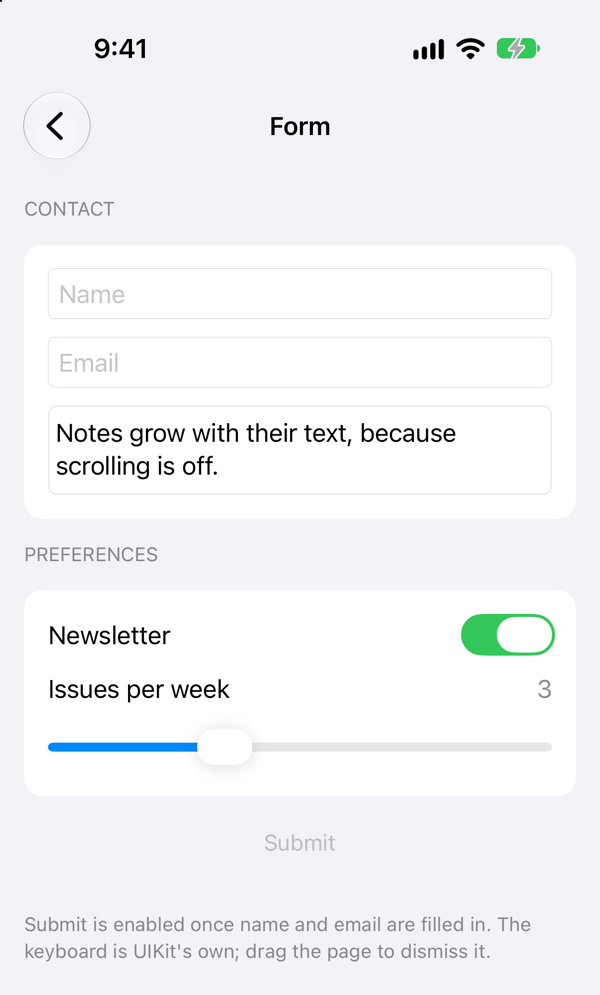
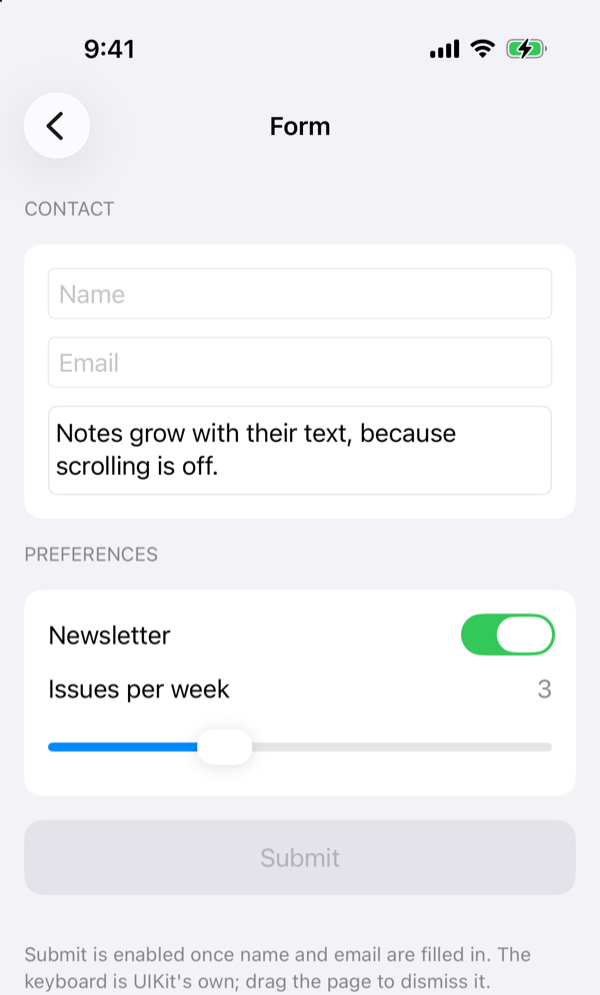
feat: add modifiers for buttons with a configuration

diff --git a/Sources/DeclarativeUIKit/Extensions/UIButton+Configuration.swift b/Sources/DeclarativeUIKit/Extensions/UIButton+Configuration.swift
@@ -1,0 +1,134 @@
+import UIKit
+
+/// Each modifier changes one property of the button's `configuration`, so the
+/// button must have one: create it with `UIButton(configuration:)`.
+/// `title(_:for:)` and `image(_:for:)` also apply to such a button.
+@MainActor
+public extension UIButton {
+
+    // MARK: Size and shape
+
+    @discardableResult
+    func buttonSize(_ value: UIButton.Configuration.Size) -> Self {
+        updateConfiguration { $0.buttonSize = value }
+    }
+
+    @discardableResult
+    func cornerStyle(_ value: UIButton.Configuration.CornerStyle) -> Self {
+        updateConfiguration { $0.cornerStyle = value }
+    }
+
+    @discardableResult
+    func contentInsets(_ value: NSDirectionalEdgeInsets) -> Self {
+        updateConfiguration { $0.contentInsets = value }
+    }
+
+    // MARK: Colors
+
+    /// The color of the title, subtitle and image. Use it instead of
+    /// `titleColor(_:for:)` on a button with a configuration.
+    @discardableResult
+    func baseForegroundColor(_ value: UIColor?) -> Self {
+        updateConfiguration { $0.baseForegroundColor = value }
+    }
+
+    @discardableResult
+    func baseBackgroundColor(_ value: UIColor?) -> Self {
+        updateConfiguration { $0.baseBackgroundColor = value }
+    }
+
+    // MARK: Text
+
+    @discardableResult
+    func subtitle(_ value: String?) -> Self {
+        updateConfiguration { $0.subtitle = value }
+    }
+
+    @discardableResult
+    func titleAlignment(_ value: UIButton.Configuration.TitleAlignment) -> Self {
+        updateConfiguration { $0.titleAlignment = value }
+    }
+
+    /// The space between the title and the subtitle.
+    @discardableResult
+    func titlePadding(_ value: CGFloat) -> Self {
+        updateConfiguration { $0.titlePadding = value }
+    }
+
+    /// Sets a fixed title font. It replaces the configuration's
+    /// `titleTextAttributesTransformer`.
+    @discardableResult
+    func titleFont(_ value: UIFont) -> Self {
+        setTitleFont { _ in value }
+    }
+
+    /// Scales `value` with Dynamic Type the way the system font for `textStyle`
+    /// scales. Give the size the font should have at the default category.
+    /// It replaces the configuration's `titleTextAttributesTransformer`.
+    @discardableResult
+    func titleFont(_ value: UIFont, relativeTo textStyle: UIFont.TextStyle) -> Self {
+        setTitleFont { traits in
+            UIFontMetrics(forTextStyle: textStyle).scaledFont(for: value, compatibleWith: traits)
+        }
+    }
+
+    /// Uses the system font for `textStyle` and follows Dynamic Type. It
+    /// replaces the configuration's `titleTextAttributesTransformer`.
+    @discardableResult
+    func titleFont(textStyle: UIFont.TextStyle) -> Self {
+        setTitleFont { traits in
+            UIFont.preferredFont(forTextStyle: textStyle, compatibleWith: traits)
+        }
+    }
+
+    // MARK: Image
+
+    @discardableResult
+    func imagePlacement(_ value: NSDirectionalRectEdge) -> Self {
+        updateConfiguration { $0.imagePlacement = value }
+    }
+
+    /// The space between the image and the text.
+    @discardableResult
+    func imagePadding(_ value: CGFloat) -> Self {
+        updateConfiguration { $0.imagePadding = value }
+    }
+
+    @discardableResult
+    func preferredSymbolConfigurationForImage(_ value: UIImage.SymbolConfiguration?) -> Self {
+        updateConfiguration { $0.preferredSymbolConfigurationForImage = value }
+    }
+
+    // MARK: State
+
+    /// Shows an activity indicator in place of the image.
+    @discardableResult
+    func showsActivityIndicator(_ value: Bool) -> Self {
+        updateConfiguration { $0.showsActivityIndicator = value }
+    }
+}
+
+private extension UIButton {
+
+    func updateConfiguration(_ change: (inout UIButton.Configuration) -> Void) -> Self {
+        guard var configuration else {
+            preconditionFailure("This modifier needs a button created with UIButton(configuration:).")
+        }
+        change(&configuration)
+        self.configuration = configuration
+        return self
+    }
+
+    /// The transformer runs again when the traits change, so a font computed
+    /// from the button's current traits follows Dynamic Type. It holds the
+    /// button weakly, because the button holds the transformer.
+    func setTitleFont(_ font: @escaping (UITraitCollection?) -> UIFont) -> Self {
+        updateConfiguration { configuration in
+            configuration.titleTextAttributesTransformer = UIConfigurationTextAttributesTransformer { [weak self] attributes in
+                var attributes = attributes
+                attributes[AttributeScopes.UIKitAttributes.FontAttribute.self] = font(self?.traitCollection)
+                return attributes
+            }
+        }
+    }
+}

diff --git a/Tests/DeclarativeUIKitTests/ButtonConfigurationTests.swift b/Tests/DeclarativeUIKitTests/ButtonConfigurationTests.swift
@@ -1,0 +1,86 @@
+import UIKit
+import XCTest
+@testable import DeclarativeUIKit
+
+@MainActor
+final class ButtonConfigurationTests: XCTestCase {
+
+    /// UIKit copies a title set with `setTitle(_:for:)` into the configuration
+    /// when the button updates, so the button is laid out first.
+    func testModifiersKeepEachOthersChanges() {
+        let host = LayoutTestHost(size: CGSize(width: 320, height: 640))
+        let button = UIButton(configuration: .filled())
+            .title("Save")
+            .cornerStyle(.capsule)
+            .imagePadding(8)
+            .baseBackgroundColor(.systemRed)
+            .title("Done")
+        host.rootView.addSubview(button)
+        host.layout()
+        button.layoutIfNeeded()
+
+        XCTAssertEqual(button.titleLabel?.text, "Done")
+        let configuration = button.configuration!
+        XCTAssertEqual(configuration.title, "Done")
+        XCTAssertEqual(configuration.cornerStyle, .capsule)
+        XCTAssertEqual(configuration.imagePadding, 8)
+        XCTAssertEqual(configuration.baseBackgroundColor, .systemRed)
+    }
+
+    /// Checks the intrinsic size: on iOS 26 the frame follows a configuration
+    /// change only in a later layout pass.
+    func testContentInsetsChangeTheSize() {
+        let button = UIButton(configuration: .filled()).title("Save")
+        let size = button.intrinsicContentSize
+        let defaultInsets = button.configuration!.contentInsets
+
+        button.contentInsets(NSDirectionalEdgeInsets(top: 20, leading: 30, bottom: 20, trailing: 30))
+
+        XCTAssertEqual(
+            button.intrinsicContentSize.width,
+            size.width - defaultInsets.leading - defaultInsets.trailing + 60,
+            accuracy: 1
+        )
+        XCTAssertEqual(
+            button.intrinsicContentSize.height,
+            size.height - defaultInsets.top - defaultInsets.bottom + 40,
+            accuracy: 1
+        )
+    }
+
+    func testTitleFontRelativeToTextStyleFollowsContentSizeCategory() throws {
+        guard #available(iOS 17.0, *) else {
+            throw XCTSkip("Trait overrides need iOS 17.")
+        }
+        let host = LayoutTestHost(size: CGSize(width: 320, height: 640))
+        host.setPreferredContentSizeCategory(.large)
+        let brand = UIFont(name: "Georgia", size: 16)!
+        let button = UIButton(configuration: .filled())
+            .title("Save")
+            .titleFont(brand, relativeTo: .body)
+        host.rootView.addSubview(button)
+        host.layout()
+        button.layoutIfNeeded()
+
+        XCTAssertEqual(button.titleLabel?.font.fontName, brand.fontName)
+        XCTAssertEqual(button.titleLabel?.font.pointSize, 16)
+
+        host.setPreferredContentSizeCategory(.accessibilityExtraLarge)
+        button.layoutIfNeeded()
+
+        XCTAssertEqual(button.titleLabel?.font.fontName, brand.fontName)
+        XCTAssertGreaterThan(button.titleLabel?.font.pointSize ?? 0, 30)
+    }
+
+    func testTitleFontDoesNotKeepTheButtonAlive() {
+        weak var weakButton: UIButton?
+        autoreleasepool {
+            let button = UIButton(configuration: .filled())
+                .title("Save")
+                .titleFont(textStyle: .headline)
+            weakButton = button
+        }
+
+        XCTAssertNil(weakButton)
+    }
+}

diff --git a/Example/Example/FormExampleViewController.swift b/Example/Example/FormExampleViewController.swift
@@ -45,9 +45,10 @@ final class FormExampleViewController: UIViewController, UITextFieldDelegate {
         .font(textStyle: .body)
         .textColor(.secondaryLabel)
 
-    private let submit = UIButton(type: .system)
+    private let submit = UIButton(configuration: .filled())
         .title("Submit")
-        .titleColor(.tertiaryLabel, for: .disabled)
+        .buttonSize(.large)
+        .cornerStyle(.large)
         .isEnabled(false)
 
     private let result = UILabel()

diff --git a/README.zh-Hant.md b/README.zh-Hant.md
@@ -125,6 +125,13 @@ let play = UIButton(type: .system)
     .title("Play")
     .title("Pause", for: .selected)
 
+let save = UIButton(configuration: .filled())
+    .title("Save")
+    .image(UIImage(systemName: "checkmark"))
+    .imagePadding(8)
+    .cornerStyle(.capsule)
+    .titleFont(textStyle: .headline)            // 跟隨 Dynamic Type
+
 let avatar = UIImageView()
     .image(photo)
     .cornerRadius(24)
@@ -139,6 +146,7 @@ let avatar = UIImageView()
 | `UIImageView` | `image`、`highlightedImage`、`preferredSymbolConfiguration` |
 | `UIControl` 及其任何子類別 | `isEnabled`、`isSelected`、`isHighlighted` |
 | `UIButton` | `title`、`titleColor`、`image`、`backgroundImage`，皆帶 `for state: UIControl.State = .normal` |
+| 有 configuration 的 `UIButton` | `buttonSize`、`cornerStyle`、`contentInsets`、`baseForegroundColor`、`baseBackgroundColor`、`subtitle`、`titleAlignment`、`titlePadding`、`titleFont`、`titleFont(_:relativeTo:)`、`titleFont(textStyle:)`、`imagePlacement`、`imagePadding`、`preferredSymbolConfigurationForImage`、`showsActivityIndicator` |
 | `UISwitch` | `isOn`、`onTintColor` |
 | `UISlider` | `value`、`minimumValue`、`maximumValue`、`minimumTrackTintColor`、`maximumTrackTintColor` |
 | `UIStepper` | `value`、`minimumValue`、`maximumValue`、`stepValue` |
@@ -150,6 +158,8 @@ let avatar = UIImageView()
 | `UITextView` | `text`、`attributedText`、`font`、`font(textStyle:)`、`font(_:relativeTo:)`、`textColor`、`textAlignment`、`keyboardType`、`returnKeyType`、`isSecureTextEntry`、`isEditable`、`isSelectable`、`isScrollEnabled` |
 
 `font(textStyle:)` 跟隨 Dynamic Type，`font(_:)` 則設定固定字型。`font(_:relativeTo:)` 讓自訂字型像該文字樣式的系統字型一樣跟隨 Dynamic Type；傳入預設文字大小下應有的字級。按鈕的 modifier 為每個控制項狀態各設定一個值。`value`、`selectedSegmentIndex`、`currentPage` 這類設定值的 modifier 不會傳送 `.valueChanged`。
+
+有 configuration 的按鈕的 modifier 修改它的 `UIButton.Configuration`，所以要用 `UIButton(configuration:)` 建立按鈕；對沒有 configuration 的按鈕呼叫時會以 precondition 失敗終止。`title` 與 `image` 對兩種按鈕都有效，並且依狀態生效。有 configuration 的按鈕請用 `baseForegroundColor` 而不是 `titleColor` 設定文字顏色，用 configuration 的 `background` 而不是 `backgroundImage` 設定背景。`titleFont` 會取代 configuration 的 `titleTextAttributesTransformer`；`relativeTo:` 與 `textStyle:` 兩種形式跟隨 Dynamic Type。
 
 `lineHeight` 設定每行的高度，與設計工具中的行高相同；`kerning` 設定每個字元後的間距。`UILabel` 沒有對應的屬性，所以由 label 保存這兩個值並寫入 `attributedText`。`text`、`attributedText`、`font` modifier 會重新套用它們；直接指派 `label.text = …` 不會，所以更新文字時請用 `label.text(…)`。文字依 UIKit 的方式貼齊每行底部，而不像設計工具那樣垂直置中。行高相對於字型，所以會隨 Dynamic Type 變大。
 

diff --git a/README.zh-Hans.md b/README.zh-Hans.md
@@ -125,6 +125,13 @@ let play = UIButton(type: .system)
     .title("Play")
     .title("Pause", for: .selected)
 
+let save = UIButton(configuration: .filled())
+    .title("Save")
+    .image(UIImage(systemName: "checkmark"))
+    .imagePadding(8)
+    .cornerStyle(.capsule)
+    .titleFont(textStyle: .headline)            // 跟随 Dynamic Type
+
 let avatar = UIImageView()
     .image(photo)
     .cornerRadius(24)
@@ -139,6 +146,7 @@ let avatar = UIImageView()
 | `UIImageView` | `image`、`highlightedImage`、`preferredSymbolConfiguration` |
 | `UIControl` 及其任何子类 | `isEnabled`、`isSelected`、`isHighlighted` |
 | `UIButton` | `title`、`titleColor`、`image`、`backgroundImage`，均带 `for state: UIControl.State = .normal` |
+| 有 configuration 的 `UIButton` | `buttonSize`、`cornerStyle`、`contentInsets`、`baseForegroundColor`、`baseBackgroundColor`、`subtitle`、`titleAlignment`、`titlePadding`、`titleFont`、`titleFont(_:relativeTo:)`、`titleFont(textStyle:)`、`imagePlacement`、`imagePadding`、`preferredSymbolConfigurationForImage`、`showsActivityIndicator` |
 | `UISwitch` | `isOn`、`onTintColor` |
 | `UISlider` | `value`、`minimumValue`、`maximumValue`、`minimumTrackTintColor`、`maximumTrackTintColor` |
 | `UIStepper` | `value`、`minimumValue`、`maximumValue`、`stepValue` |
@@ -150,6 +158,8 @@ let avatar = UIImageView()
 | `UITextView` | `text`、`attributedText`、`font`、`font(textStyle:)`、`font(_:relativeTo:)`、`textColor`、`textAlignment`、`keyboardType`、`returnKeyType`、`isSecureTextEntry`、`isEditable`、`isSelectable`、`isScrollEnabled` |
 
 `font(textStyle:)` 跟随 Dynamic Type，`font(_:)` 则设置固定字体。`font(_:relativeTo:)` 让自定义字体像该文字样式的系统字体一样跟随 Dynamic Type；传入默认文字大小下应有的字号。按钮的 modifier 为每个控件状态各设置一个值。`value`、`selectedSegmentIndex`、`currentPage` 这类设置值的 modifier 不会发送 `.valueChanged`。
+
+有 configuration 的按钮的 modifier 修改它的 `UIButton.Configuration`，所以要用 `UIButton(configuration:)` 创建按钮；对没有 configuration 的按钮调用时会以 precondition 失败终止。`title` 和 `image` 对两种按钮都有效，并且按状态生效。有 configuration 的按钮请用 `baseForegroundColor` 而不是 `titleColor` 设置文字颜色，用 configuration 的 `background` 而不是 `backgroundImage` 设置背景。`titleFont` 会替换 configuration 的 `titleTextAttributesTransformer`；`relativeTo:` 与 `textStyle:` 两种形式跟随 Dynamic Type。
 
 `lineHeight` 设置每行的高度，与设计工具中的行高相同；`kerning` 设置每个字符后的间距。`UILabel` 没有对应的属性，所以由 label 保存这两个值并写入 `attributedText`。`text`、`attributedText`、`font` modifier 会重新应用它们；直接赋值 `label.text = …` 不会，所以更新文字时请用 `label.text(…)`。文字按 UIKit 的方式贴在每行底部，而不像设计工具那样垂直居中。行高相对于字体，所以会随 Dynamic Type 变大。
 

diff --git a/README.md b/README.md
@@ -125,6 +125,13 @@ let play = UIButton(type: .system)
     .title("Play")
     .title("Pause", for: .selected)
 
+let save = UIButton(configuration: .filled())
+    .title("Save")
+    .image(UIImage(systemName: "checkmark"))
+    .imagePadding(8)
+    .cornerStyle(.capsule)
+    .titleFont(textStyle: .headline)            // follows Dynamic Type
+
 let avatar = UIImageView()
     .image(photo)
     .cornerRadius(24)
@@ -139,6 +146,7 @@ let avatar = UIImageView()
 | `UIImageView` | `image`, `highlightedImage`, `preferredSymbolConfiguration` |
 | `UIControl` and any subclass | `isEnabled`, `isSelected`, `isHighlighted` |
 | `UIButton` | `title`, `titleColor`, `image`, `backgroundImage`, each with `for state: UIControl.State = .normal` |
+| `UIButton` with a configuration | `buttonSize`, `cornerStyle`, `contentInsets`, `baseForegroundColor`, `baseBackgroundColor`, `subtitle`, `titleAlignment`, `titlePadding`, `titleFont`, `titleFont(_:relativeTo:)`, `titleFont(textStyle:)`, `imagePlacement`, `imagePadding`, `preferredSymbolConfigurationForImage`, `showsActivityIndicator` |
 | `UISwitch` | `isOn`, `onTintColor` |
 | `UISlider` | `value`, `minimumValue`, `maximumValue`, `minimumTrackTintColor`, `maximumTrackTintColor` |
 | `UIStepper` | `value`, `minimumValue`, `maximumValue`, `stepValue` |
@@ -150,6 +158,8 @@ let avatar = UIImageView()
 | `UITextView` | `text`, `attributedText`, `font`, `font(textStyle:)`, `font(_:relativeTo:)`, `textColor`, `textAlignment`, `keyboardType`, `returnKeyType`, `isSecureTextEntry`, `isEditable`, `isSelectable`, `isScrollEnabled` |
 
 `font(textStyle:)` follows Dynamic Type, while `font(_:)` sets a fixed font. `font(_:relativeTo:)` makes a custom font follow Dynamic Type the way the system font for the text style does; give the size it should have at the default text size. Button modifiers set one value per control state. Value modifiers such as `value`, `selectedSegmentIndex` and `currentPage` send no `.valueChanged`.
+
+The modifiers for a button with a configuration change its `UIButton.Configuration`, so create the button with `UIButton(configuration:)`; on a button without one they stop with a precondition failure. `title` and `image` work on both kinds of button, per state. On a button with a configuration, color the text with `baseForegroundColor` instead of `titleColor`, and set the background through the configuration's `background` instead of `backgroundImage`. `titleFont` replaces the configuration's `titleTextAttributesTransformer`; the `relativeTo:` and `textStyle:` forms follow Dynamic Type.
 
 `lineHeight` sets the height of each line, as in a design tool, and `kerning` the space after each character. `UILabel` has no property for either, so the label keeps them and writes them into `attributedText`. The `text`, `attributedText` and `font` modifiers apply them again; assigning `label.text = …` directly does not, so update the text with `label.text(…)`. Text sits at the bottom of each line, as UIKit draws it, not centered as in a design tool. The line height is relative to the font, so it grows with Dynamic Type.
 

diff --git a/CHANGELOG.md b/CHANGELOG.md
@@ -10,6 +10,7 @@ All notable changes to this project are documented here. The format follows
 
 - `lineHeight(_:)` and `kerning(_:)` on `UILabel`, kept across the label's `text`, `attributedText` and `font` modifiers.
 - `font(_:relativeTo:)` on `UILabel`, `UITextField` and `UITextView`, which makes a custom font follow Dynamic Type.
+- Modifiers for buttons created with `UIButton(configuration:)`: `buttonSize`, `cornerStyle`, `contentInsets`, `baseForegroundColor`, `baseBackgroundColor`, `subtitle`, `titleAlignment`, `titlePadding`, `titleFont`, `imagePlacement`, `imagePadding`, `preferredSymbolConfigurationForImage` and `showsActivityIndicator`.
 
 ## [0.4.0] - 2026-10-16
 
